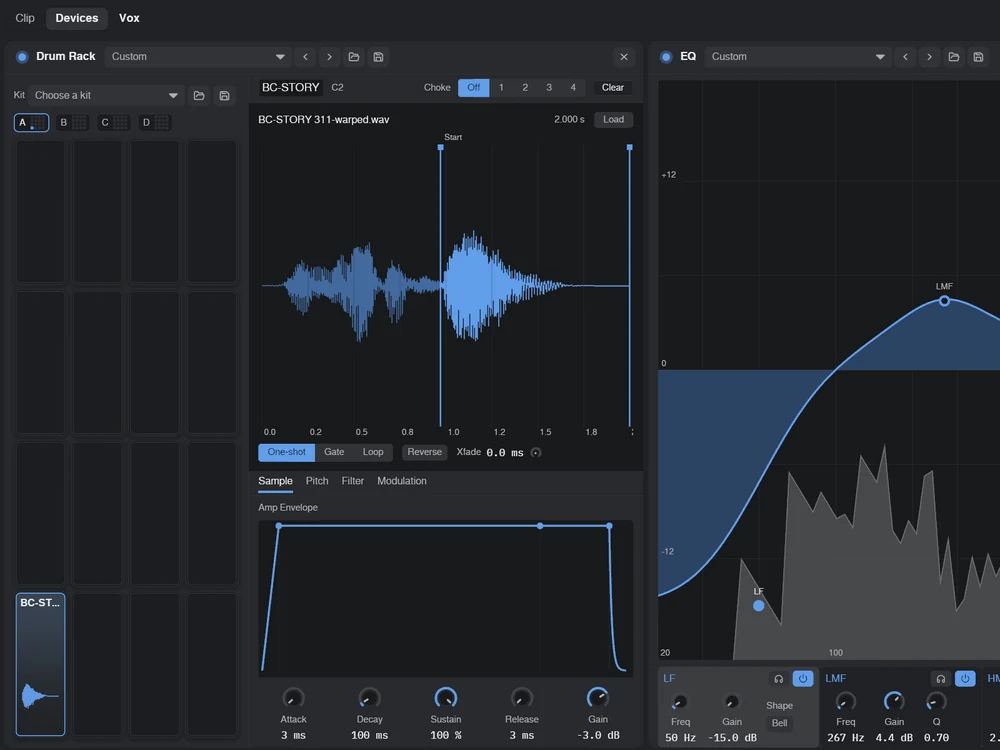
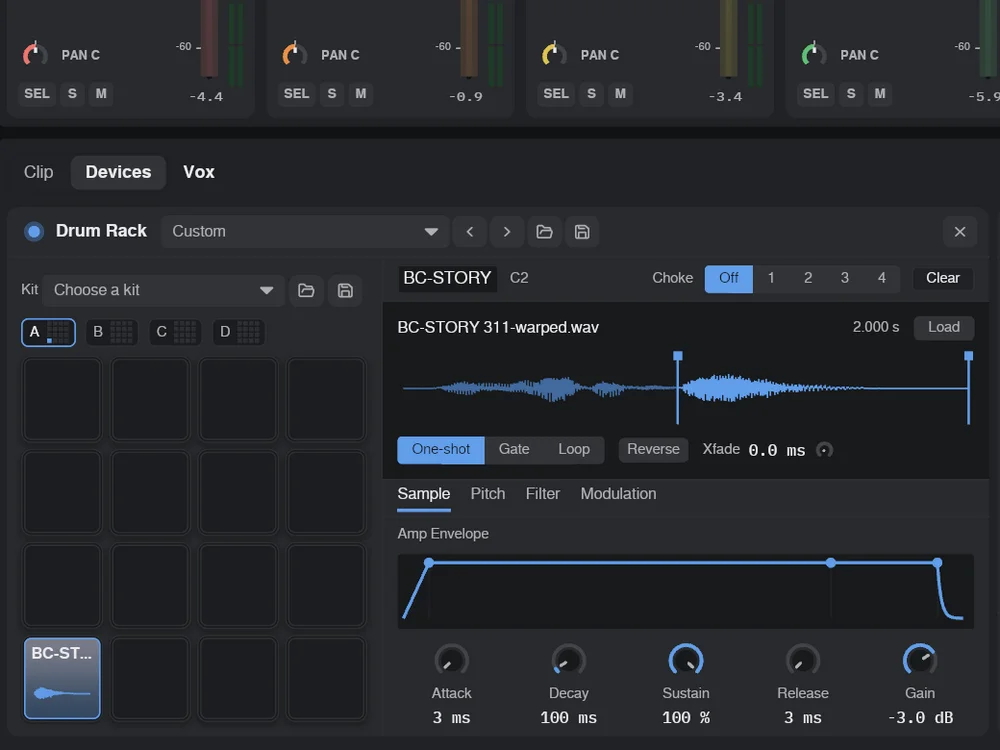
docs(site): retake the Mix band and Device rack shots at a panel height where the Drum Rack's pads are square

diff --git a/site/index.html b/site/index.html
@@ -878,7 +878,7 @@ cd vibez &amp;&amp; cargo run --release</code>
       d: 'Preview a loop against the playing track. Warp detects its tempo, fits it to the project BPM and keeps it there when the tempo changes.' },
     { k: 'C', n: 'Channel EQ',      m: 'Mix', s: 'images/channeleq.webp', c: 'Mix \u00b7 every channel with its own four band EQ',
       d: 'Every channel has a four band EQ and named sends to the returns. Returns and the master use the same channel strip.' },
-    { k: 'V', n: 'Device rack',     m: 'Mix', s: 'images/devicerack.webp', c: 'Mix \u00b7 the Drum Rack and EQ on the Vox channel',
+    { k: 'V', n: 'Device rack',     m: 'Mix', s: 'images/devicerack.webp', c: 'Mix \u00b7 the Drum Rack on the Vox channel, a Sampler on every pad',
       d: 'The rack holds vibez\u2019s own synths, sampler, drum rack and effects. It also loads VST3 and CLAP plugins with their native interfaces. Plugin scanning runs in a separate process, so a broken plugin does not crash vibez.' }
   ];
   var HUES = ['var(--kick)', 'var(--chords)', 'var(--chat)', 'var(--clap)'];
